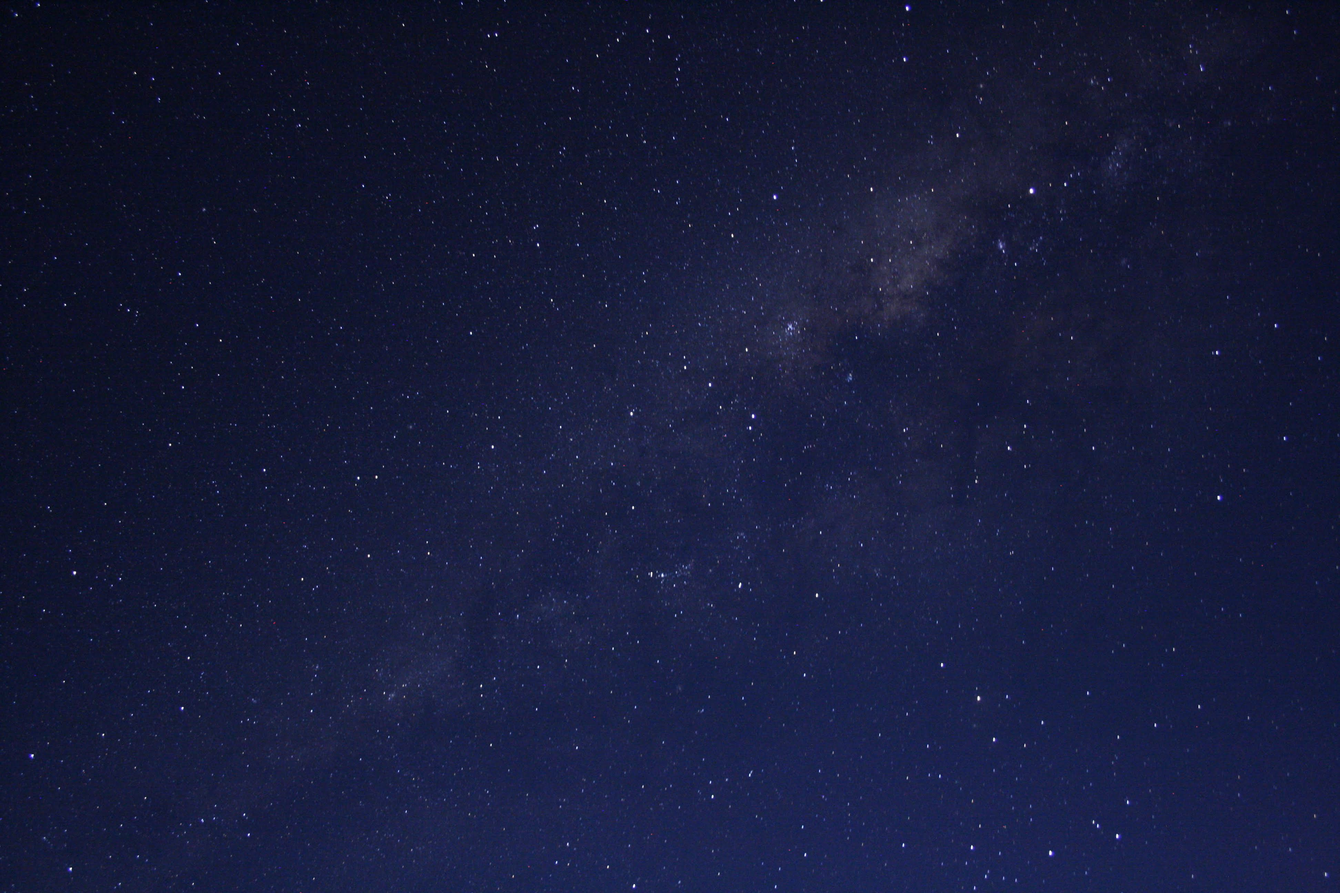
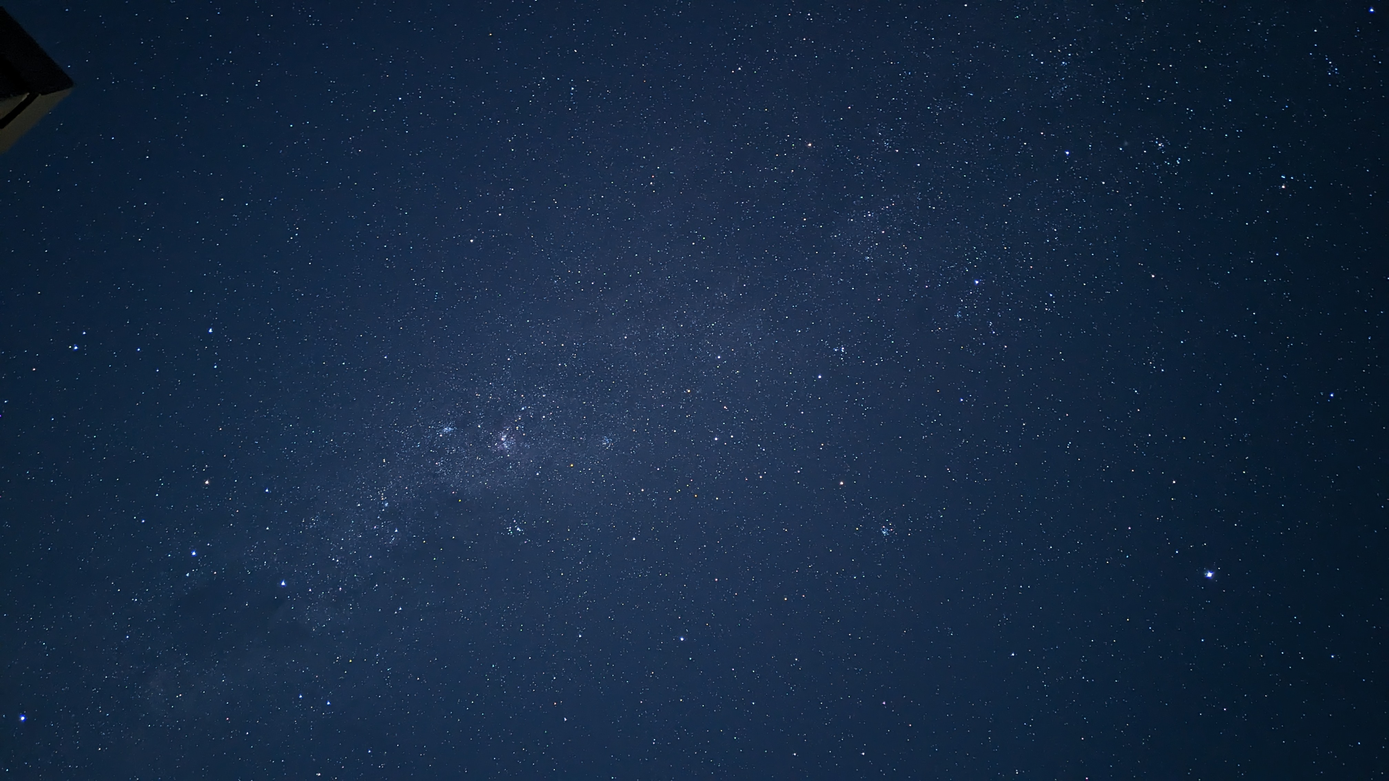
Fixed an issue with person/img

diff --git a/people/giulia-ballabio.html b/people/giulia-ballabio.html
@@ -3,7 +3,7 @@
 <head>
   <meta charset="utf-8">
   <meta name="viewport" content="width=device-width, initial-scale=1">
-  <title>MetRX · Professor Reecha Sofat</title>
+  <title>MetRX · Dr Giulia Ballabio</title>
 
   <link rel="preconnect" href="https://fonts.googleapis.com">
   <link rel="preconnect" href="https://fonts.gstatic.com" crossorigin>
@@ -221,14 +221,15 @@
 					    </div>
 				    </div>
 				</div>
-			</div>
 
-			<div class="skills-right skills-right--image">
-				<img src="../assets/img/giulia-bg.jpg" alt="Milky Way night sky">
-				<div class="skills-caption" aria-hidden="true">
-					<span class="skills-caption-text">Atacama Desert, Chile © G. Ballabio</span>
-				</div>
-			</div>
+			    <div class="skills-right skills-right--image">
+				    <img src="../assets/img/giulia-bg2.jpg" alt="Milky Way night sky">
+				    <div class="skills-caption" aria-hidden="true">
+					    <!-- <span class="skills-caption-text">Atacama Desert, Chile © G. Ballabio</span> -->
+                        <span class="skills-caption-text">New Zealand © G. Ballabio</span>
+				    </div>
+			    </div>
+            </div>
 		</div>
     </section>
 

diff --git a/people/person.css b/people/person.css
@@ -346,9 +346,9 @@
 	font-size: 10px;
 	line-height: 1;
 
-	/* writing-mode: vertical-rl; 
+	writing-mode: vertical-rl; 
     text-orientation: mixed;
-	transform: rotate(180deg); */
+	transform: rotate(180deg);
 
 	padding: 4px 4px;
 	background: rgba(0,0,0,0.20);
